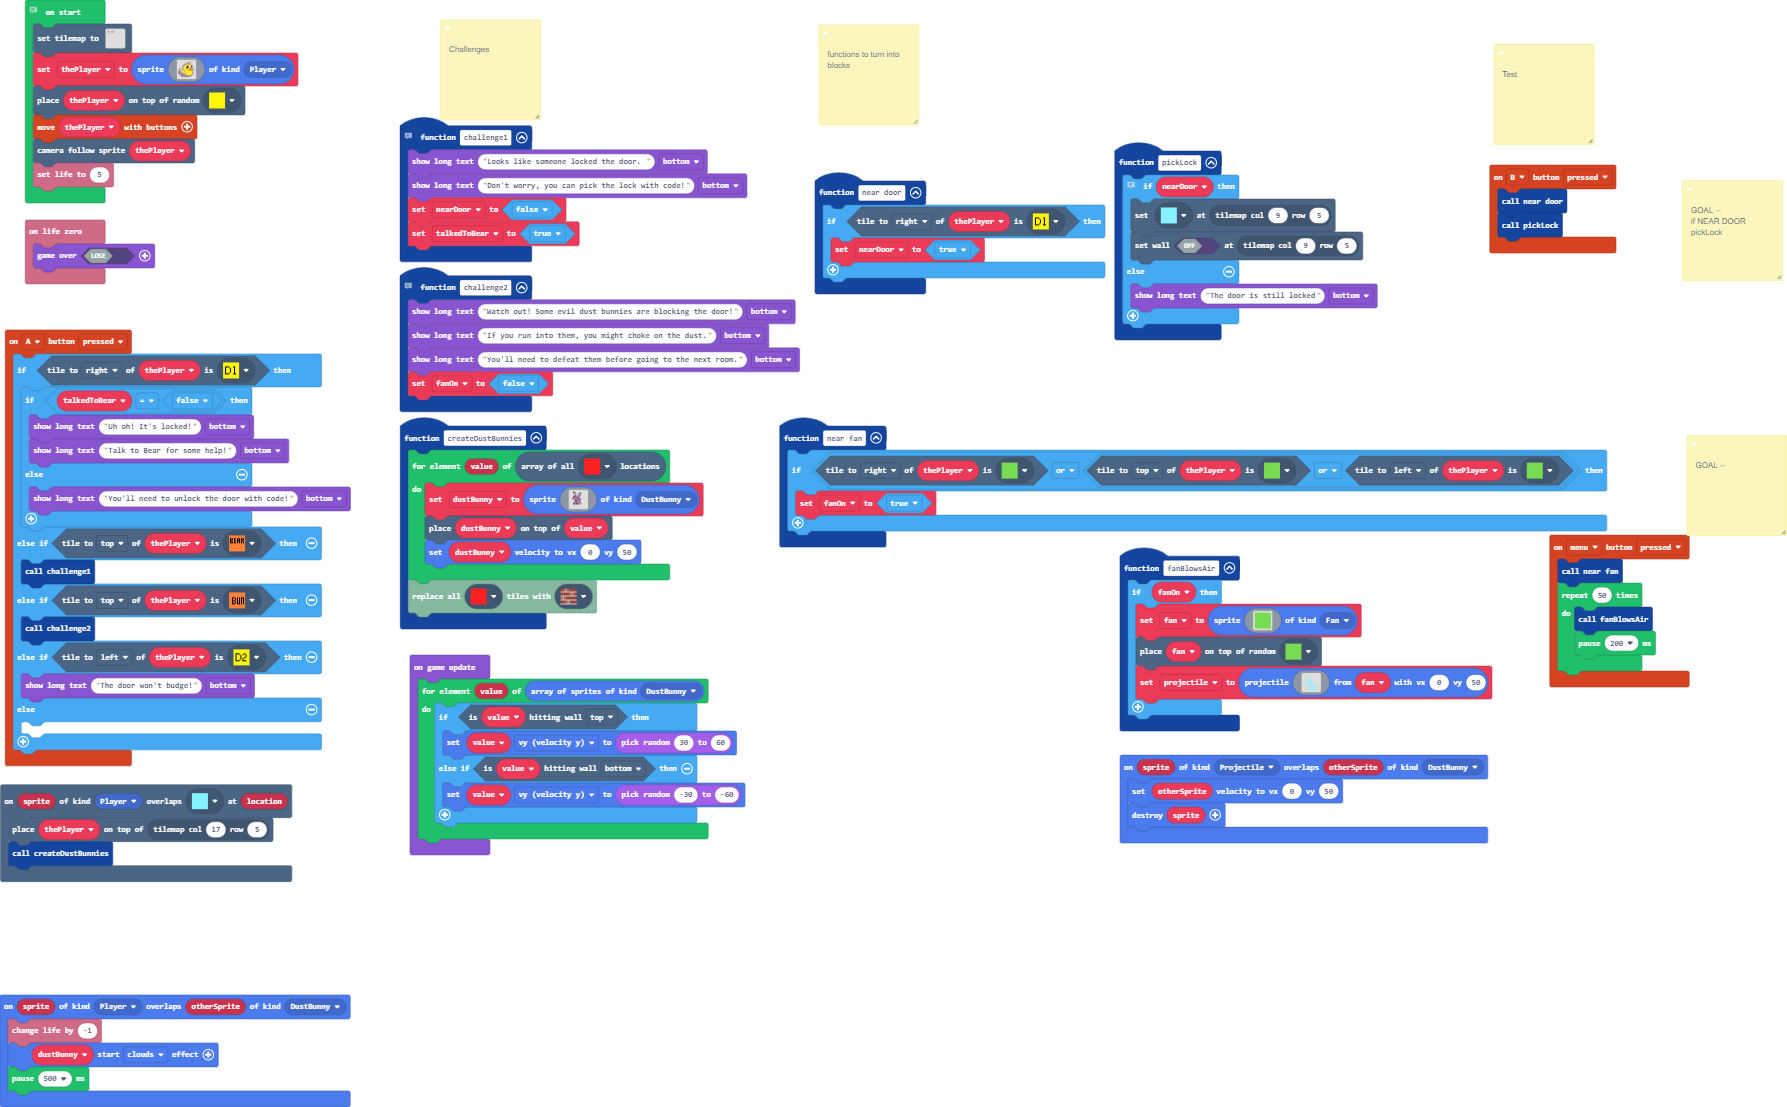
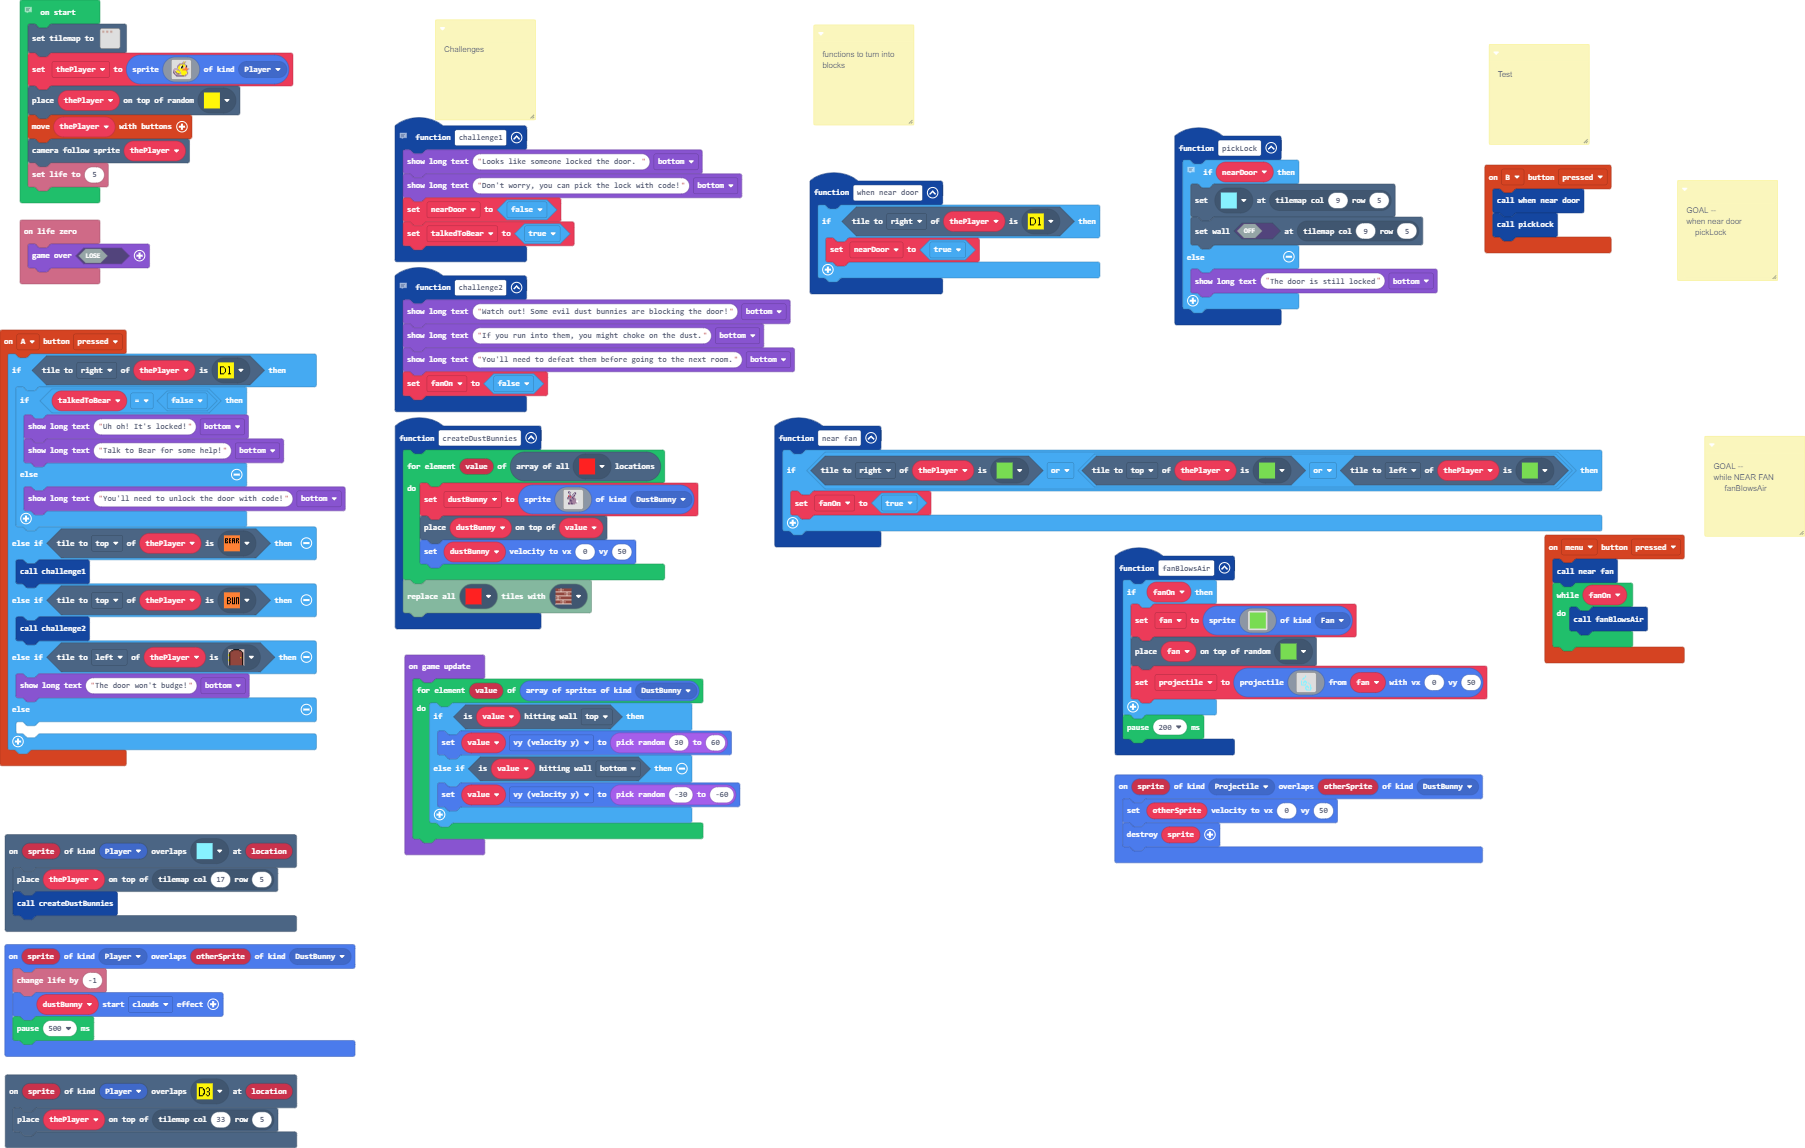
changed some doors

diff --git a/main.ts b/main.ts
@@ -6,21 +6,18 @@ namespace SpriteKind {
  * functions to turn into blocks
  */
 /**
- * Test
- */
-/**
  * GOAL --
  * 
- * if NEAR DOOR
+ * when near door
  * 
- * pickLock
+ *     pickLock
  */
 sprites.onOverlap(SpriteKind.Projectile, SpriteKind.DustBunny, function (sprite, otherSprite) {
     otherSprite.setVelocity(0, 50)
     sprite.destroy()
 })
 controller.B.onEvent(ControllerButtonEvent.Pressed, function () {
-    near_door()
+    when_near_door()
     pickLock()
 })
 sprites.onOverlap(SpriteKind.Player, SpriteKind.DustBunny, function (sprite, otherSprite) {
@@ -50,12 +47,20 @@ controller.A.onEvent(ControllerButtonEvent.Pressed, function () {
         challenge1()
     } else if (thePlayer.tileKindAt(TileDirection.Top, myTiles.tile9)) {
         challenge2()
-    } else if (thePlayer.tileKindAt(TileDirection.Left, myTiles.tile8)) {
+    } else if (thePlayer.tileKindAt(TileDirection.Left, myTiles.tile4)) {
         game.showLongText("The door won't budge!", DialogLayout.Bottom)
     } else {
     	
     }
 })
+function when_near_door () {
+    if (thePlayer.tileKindAt(TileDirection.Right, myTiles.tile5)) {
+        nearDoor = true
+    }
+}
+/**
+ * Test
+ */
 function pickLock () {
     // replace if with 'when near door'
     if (nearDoor) {
@@ -71,22 +76,20 @@ scene.onOverlapTile(SpriteKind.Player, myTiles.tile11, function (sprite, locatio
 })
 /**
  * GOAL --
+ * 
+ * while NEAR FAN
+ * 
+ *      fanBlowsAir
  */
 controller.menu.onEvent(ControllerButtonEvent.Pressed, function () {
     near_fan()
-    for (let index = 0; index < 50; index++) {
+    while (fanOn) {
         fanBlowsAir()
-        pause(200)
     }
 })
 info.onLifeZero(function () {
     game.over(false)
 })
-function near_door () {
-    if (thePlayer.tileKindAt(TileDirection.Right, myTiles.tile5)) {
-        nearDoor = true
-    }
-}
 function fanBlowsAir () {
     if (fanOn) {
         fan = sprites.create(img`
@@ -127,6 +130,7 @@ function fanBlowsAir () {
             . . . . . . . . 9 9 9 9 9 . . . 
             `, fan, 0, 50)
     }
+    pause(200)
 }
 function createDustBunnies () {
     for (let value of tiles.getTilesByType(myTiles.tile10)) {
@@ -153,6 +157,9 @@ function createDustBunnies () {
     }
     tiles.replaceAllTiles(myTiles.tile10, myTiles.tile1)
 }
+scene.onOverlapTile(SpriteKind.Player, myTiles.tile13, function (sprite, location) {
+    tiles.placeOnTile(thePlayer, tiles.getTileLocation(33, 5))
+})
 function near_fan () {
     if (thePlayer.tileKindAt(TileDirection.Right, myTiles.tile12) || (thePlayer.tileKindAt(TileDirection.Top, myTiles.tile12) || thePlayer.tileKindAt(TileDirection.Left, myTiles.tile12))) {
         fanOn = true
@@ -173,17 +180,17 @@ let talkedToBear = false
 let nearDoor = false
 let dustBunny: Sprite = null
 let thePlayer: Sprite = null
-tiles.setTilemap(tiles.createTilemap(hex`4000400002020202020202020202000000000000020202020202020202020200000000000000000000000000000000000000000000000000000000000000000000000000020101010101050101020000000000000201010501010101080102000000000000000000000000000000000000000000000000000000000000000000000000000201010101010101010200000000000002010101010101010101020000000000000000000000000000000000000000000000000000000000000000000000000002010101010101010102000000000000020101010101010107010200000000000000000000000000000000000000000000000000000000000000000000000000020103010101010101020000000000000201010101010101010102000000000000000000000000000000000000000000000000000000000000000000000000000201010101010101010400000000000006010101010101010701090000000000000000000000000000000000000000000000000000000000000000000000000002010101010101010102000000000000020101010101010107010200000000000000000000000000000000000000000000000000000000000000000000000000020101010101010101020000000000000201010101010101070102000000000000000000000000000000000000000000000000000000000000000000000000000201010101010101010200000000000002010101010101010701020000000000000000000000000000000000000000000000000000000000000000000000000002020202020202020202000000000000020202020202020202020200000000000000000000000000000000000000000000000000000000000000000000000000000000000000000000000000000000000000000000000000000000000000000000000000000000000000000000000000000000000000000000000000000000000000000000000000000000000000000000000000000000000000000000000000000000000000000000000000000000000000000000000000000000000000000000000000000000000000000000000000000000000000000000000000000000000000000000000000000000000000000000000000000000000000000000000000000000000000000000000000000000000000000000000000000000000000000000000000000000000000000000000000000000000000000000000000000000000000000000000000000000000000000000000000000000000000000000000000000000000000000000000000000000000000000000000000000000000000000000000000000000000000000000000000000000000000000000000000000000000000000000000000000000000000000000000000000000000000000000000000000000000000000000000000000000000000000000000000000000000000000000000000000000000000000000000000000000000000000000000000000000000000000000000000000000000000000000000000000000000000000000000000000000000000000000000000000000000000000000000000000000000000000000000000000000000000000000000000000000000000000000000000000000000000000000000000000000000000000000000000000000000000000000000000000000000000000000000000000000000000000000000000000000000000000000000000000000000000000000000000000000000000000000000000000000000000000000000000000000000000000000000000000000000000000000000000000000000000000000000000000000000000000000000000000000000000000000000000000000000000000000000000000000000000000000000000000000000000000000000000000000000000000000000000000000000000000000000000000000000000000000000000000000000000000000000000000000000000000000000000000000000000000000000000000000000000000000000000000000000000000000000000000000000000000000000000000000000000000000000000000000000000000000000000000000000000000000000000000000000000000000000000000000000000000000000000000000000000000000000000000000000000000000000000000000000000000000000000000000000000000000000000000000000000000000000000000000000000000000000000000000000000000000000000000000000000000000000000000000000000000000000000000000000000000000000000000000000000000000000000000000000000000000000000000000000000000000000000000000000000000000000000000000000000000000000000000000000000000000000000000000000000000000000000000000000000000000000000000000000000000000000000000000000000000000000000000000000000000000000000000000000000000000000000000000000000000000000000000000000000000000000000000000000000000000000000000000000000000000000000000000000000000000000000000000000000000000000000000000000000000000000000000000000000000000000000000000000000000000000000000000000000000000000000000000000000000000000000000000000000000000000000000000000000000000000000000000000000000000000000000000000000000000000000000000000000000000000000000000000000000000000000000000000000000000000000000000000000000000000000000000000000000000000000000000000000000000000000000000000000000000000000000000000000000000000000000000000000000000000000000000000000000000000000000000000000000000000000000000000000000000000000000000000000000000000000000000000000000000000000000000000000000000000000000000000000000000000000000000000000000000000000000000000000000000000000000000000000000000000000000000000000000000000000000000000000000000000000000000000000000000000000000000000000000000000000000000000000000000000000000000000000000000000000000000000000000000000000000000000000000000000000000000000000000000000000000000000000000000000000000000000000000000000000000000000000000000000000000000000000000000000000000000000000000000000000000000000000000000000000000000000000000000000000000000000000000000000000000000000000000000000000000000000000000000000000000000000000000000000000000000000000000000000000000000000000000000000000000000000000000000000000000000000000000000000000000000000000000000000000000000000000000000000000000000000000000000000000000000000000000000000000000000000000000000000000000000000000000000000000000000000000000000000000000000000000000000000000000000000000000000000000000000000000000000000000000000000000000000000000000000000000000000000000000000000000000000000000000000000000000000000000000000000000000000000000000000000000000000000000000000000000000000000000000000000000000000000000000000000000000000000000000000000000000000000000000000000000000000000000000000000000000000000000000000000000000000000000000000000000000000000000000000000000000000000000000000000000000000000000000000000000000000000000000000000000000000000000000000000000000000000000000000000000000000000000000000000000000000000000000000000000000000000000000000000000000000000000000000000000000000000000000000000000000000000000000000000000000000000000000000000000000000000000000000000000000000000000000000000000000000000000000000000000000000000000000000000000000000000000000000000000000000000000000000000000000000000000000000000000000000000000000000000000000000000000000000000000000000000000000000000000000000000000000000000000000000000000000000000000000000000000000000000000000000000000000000000000000000000000000000000000000000000000000000000000000000000000000000000000000000000000000000000000000000000000000000000000000000000000000000000000000000000000000000000000000000000000000000000000000000000000000000000000000000000000000000000000000000000000000000000000000000000000000000000000000000000000000000000000000000000000000000000000000000000000000000000000000000000000000000000000000000000000000000000000000000000000000000000000000000000000000000000000000000000000000000000000000000000000000000000000000000000000000000000000000000000000000000000000000000000000000000000000000000000000000000000000000000000000000000000000000000000000000000000000000000000000000000000000000000000000000000000000000000000000000000000000000000000000000000000000000000000000000000000000000000000000000000000000000000000000000000000000000000000000000000000000000000000000000000000000000000000000000000000000000000000000000000000000000000000000000000000000000000000000000000000000000000000000000000000000000000000000000000000000000000000000000000000000000000000000000000000000000000000000000000000000000000000000000000000000000000000000000000000000000000000000000000000000000000000000000000000000000000000000000000000000000000000000000000000000000000000000000000000000000000000000000000000000000000000000000000000000000000000000000000000000000000000000000000000000000000000000000000000000000000000000000000000000000000000000000000000000000000000000000000000000000000000000000000000000000000000000000000000000000000000000000000000000000000000000000000000000000000000000000000000000000000000000000000000000000000000000000000000000000000000000000000000000000000000000000000000000000000000000000000000000000000000000000000000000000000000000000000000000000000000000000000000000000000000000000000000000000000000000000000000000000000000000000000000000000000000000000000000000000000000000000000000000000000000000000000000000000000000000000000000000000000000000000000000000000000000000`, img`
-    2 2 2 2 2 2 2 2 2 2 . . . . . . 2 2 2 2 2 2 2 2 2 2 2 . . . . . . . . . . . . . . . . . . . . . . . . . . . . . . . . . . . . . 
-    2 . . . . . 2 . . 2 . . . . . . 2 . . 2 . . . . 2 . 2 . . . . . . . . . . . . . . . . . . . . . . . . . . . . . . . . . . . . . 
-    2 . . . . . . . . 2 . . . . . . 2 . . . . . . . . . 2 . . . . . . . . . . . . . . . . . . . . . . . . . . . . . . . . . . . . . 
-    2 . . . . . . . . 2 . . . . . . 2 . . . . . . . . . 2 . . . . . . . . . . . . . . . . . . . . . . . . . . . . . . . . . . . . . 
-    2 . . . . . . . . 2 . . . . . . 2 . . . . . . . . . 2 . . . . . . . . . . . . . . . . . . . . . . . . . . . . . . . . . . . . . 
-    2 . . . . . . . . 2 . . . . . . 2 . . . . . . . . . 2 . . . . . . . . . . . . . . . . . . . . . . . . . . . . . . . . . . . . . 
-    2 . . . . . . . . 2 . . . . . . 2 . . . . . . . . . 2 . . . . . . . . . . . . . . . . . . . . . . . . . . . . . . . . . . . . . 
-    2 . . . . . . . . 2 . . . . . . 2 . . . . . . . . . 2 . . . . . . . . . . . . . . . . . . . . . . . . . . . . . . . . . . . . . 
-    2 . . . . . . . . 2 . . . . . . 2 . . . . . . . . . 2 . . . . . . . . . . . . . . . . . . . . . . . . . . . . . . . . . . . . . 
-    2 2 2 2 2 2 2 2 2 2 . . . . . . 2 2 2 2 2 2 2 2 2 2 2 . . . . . . . . . . . . . . . . . . . . . . . . . . . . . . . . . . . . . 
[1 lines of base64/hex data omitted]
+    2 2 2 2 2 2 2 2 2 2 . . . . . . 2 2 2 2 2 2 2 2 2 2 . . . . . . 2 2 2 2 2 2 2 2 2 2 . . . . . . . . . . . . . . . . . . . . . . 
+    2 . . . . . 2 . . 2 . . . . . . 2 . . 2 . . . 2 . 2 . . . . . . 2 . . . . . . . . 2 . . . . . . . . . . . . . . . . . . . . . . 
+    2 . . . . . . . . 2 . . . . . . 2 . . . . . . . . 2 . . . . . . 2 . . . . . . . . 2 . . . . . . . . . . . . . . . . . . . . . . 
+    2 . . . . . . . . 2 . . . . . . 2 . . . . . . . . 2 . . . . . . 2 . . . . . . . . 2 . . . . . . . . . . . . . . . . . . . . . . 
+    2 . . . . . . . . 2 . . . . . . 2 . . . . . . . . 2 . . . . . . 2 . . . . . . . . 2 . . . . . . . . . . . . . . . . . . . . . . 
+    2 . . . . . . . . 2 . . . . . . 2 . . . . . . . . . . . . . . . 2 . . . . . . . . . . . . . . . . . . . . . . . . . . . . . . . 
+    2 . . . . . . . . 2 . . . . . . 2 . . . . . . . . 2 . . . . . . 2 . . . . . . . . 2 . . . . . . . . . . . . . . . . . . . . . . 
+    2 . . . . . . . . 2 . . . . . . 2 . . . . . . . . 2 . . . . . . 2 . . . . . . . . 2 . . . . . . . . . . . . . . . . . . . . . . 
+    2 . . . . . . . . 2 . . . . . . 2 . . . . . . . . 2 . . . . . . 2 . . . . . . . . 2 . . . . . . . . . . . . . . . . . . . . . . 
+    2 2 2 2 2 2 2 2 2 2 . . . . . . 2 2 2 2 2 2 2 2 2 2 . . . . . . 2 2 2 2 2 2 2 2 2 2 . . . . . . . . . . . . . . . . . . . . . . 
     . . . . . . . . . . . . . . . . . . . . . . . . . . . . . . . . . . . . . . . . . . . . . . . . . . . . . . . . . . . . . . . . 
     . . . . . . . . . . . . . . . . . . . . . . . . . . . . . . . . . . . . . . . . . . . . . . . . . . . . . . . . . . . . . . . . 
     . . . . . . . . . . . . . . . . . . . . . . . . . . . . . . . . . . . . . . . . . . . . . . . . . . . . . . . . . . . . . . . . 
@@ -238,7 +245,7 @@ tiles.setTilemap(tiles.createTilemap(hex`400040000202020202020202020200000000000
     . . . . . . . . . . . . . . . . . . . . . . . . . . . . . . . . . . . . . . . . . . . . . . . . . . . . . . . . . . . . . . . . 
     . . . . . . . . . . . . . . . . . . . . . . . . . . . . . . . . . . . . . . . . . . . . . . . . . . . . . . . . . . . . . . . . 
     . . . . . . . . . . . . . . . . . . . . . . . . . . . . . . . . . . . . . . . . . . . . . . . . . . . . . . . . . . . . . . . . 
-    `, [myTiles.transparency16,myTiles.tile1,myTiles.tile2,myTiles.tile3,myTiles.tile5,myTiles.tile6,myTiles.tile8,myTiles.tile10,myTiles.tile12,myTiles.tile13], TileScale.Sixteen))
+    `, [myTiles.transparency16,myTiles.tile1,myTiles.tile2,myTiles.tile3,myTiles.tile5,myTiles.tile6,myTiles.tile10,myTiles.tile12,myTiles.tile13,myTiles.tile14,myTiles.tile4], TileScale.Sixteen))
 thePlayer = sprites.create(img`
     . . . . . . . . . . b 5 b . . . 
     . . . . . . . . . b 5 b . . . . 

diff --git a/tilemap.g.ts b/tilemap.g.ts
@@ -28,6 +28,8 @@ namespace myTiles {
     export const tile12 = image.ofBuffer(hex``);
     //% fixedInstance jres blockIdentity=images._tile
     export const tile13 = image.ofBuffer(hex``);
+    //% fixedInstance jres blockIdentity=images._tile
+    export const tile14 = image.ofBuffer(hex``);
 
 }
 // Auto-generated code. Do not edit.
